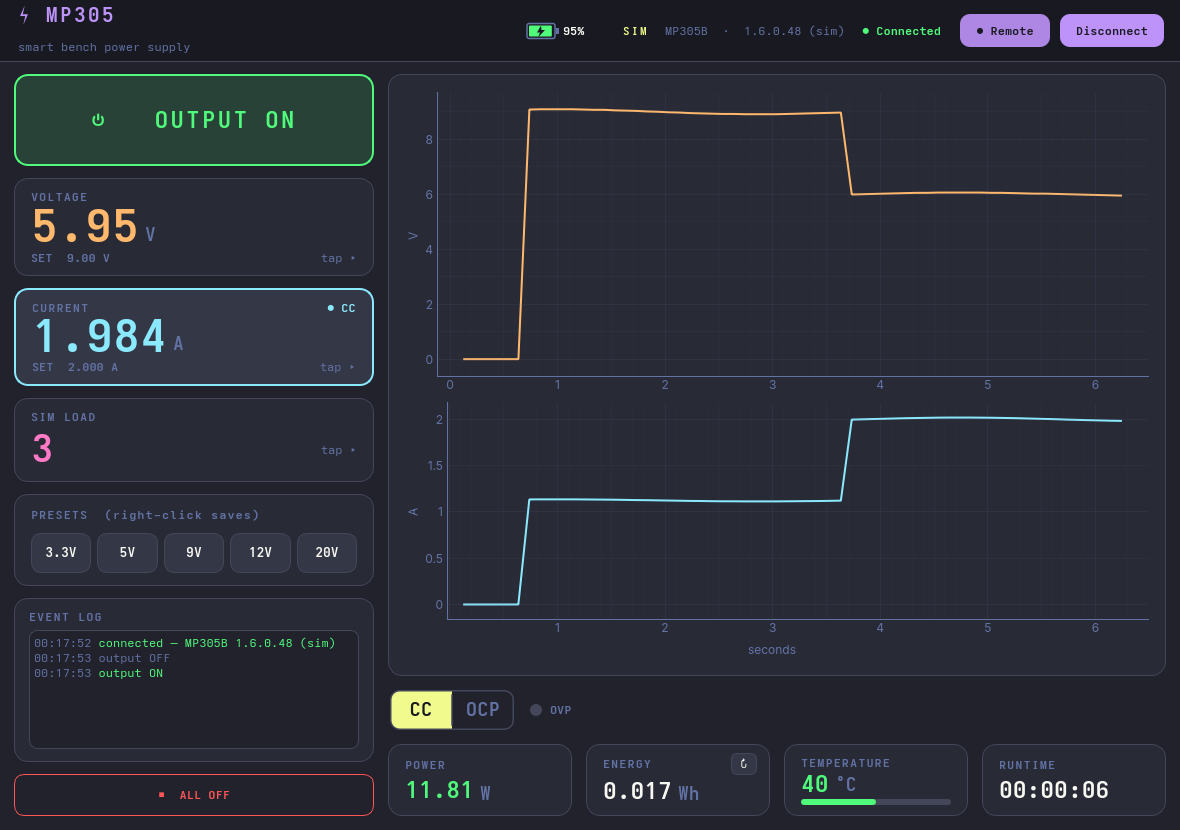
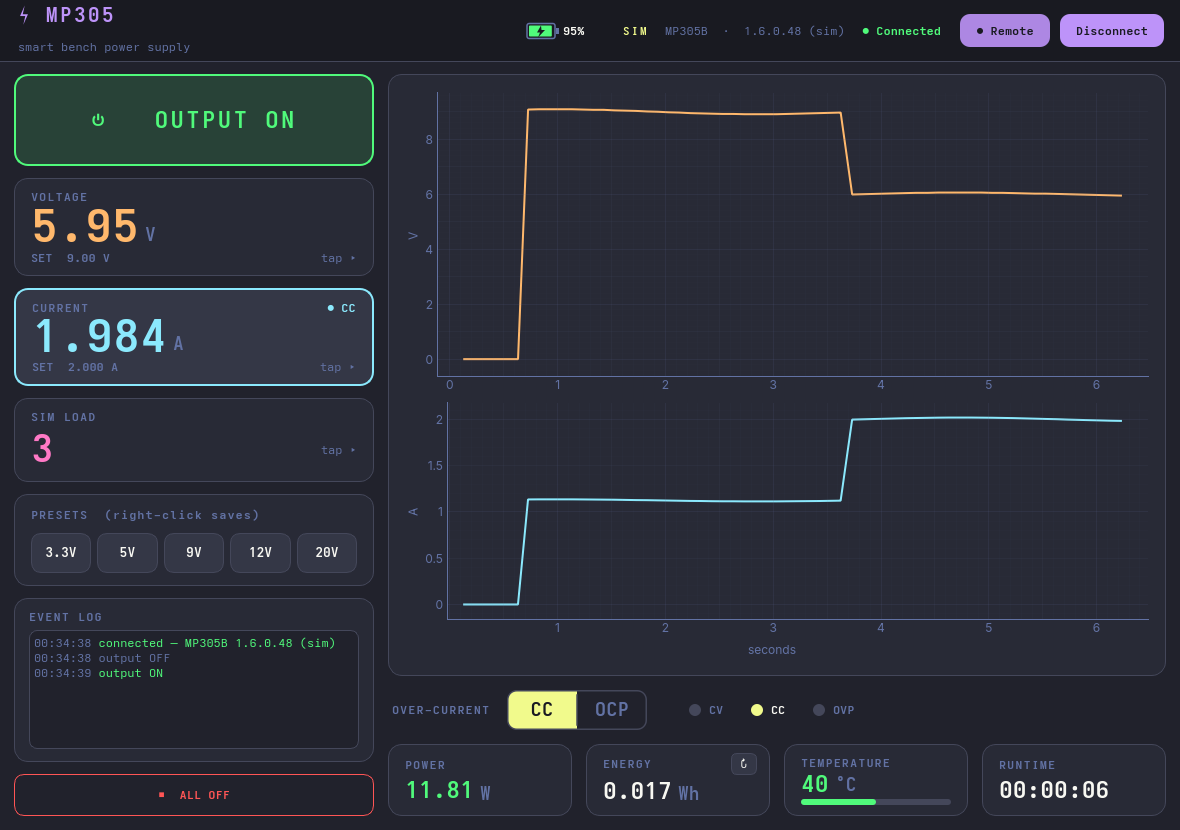
GUI: replicate WebLink control/status logic (over-current toggle vs CV/CC/OVP lamps) + 0.4.3
Studied the recovered WebLink infoComponent.vue:
- connectSets.currentOver (0=CC, 1=OCP) is a SELECTABLE setting -> a real CC|OCP toggle
  (over-current behaviour: current-limit vs trip), wired through reqCurrentOver ->
  backend.set_current_over (real: control cmd; sim: models the OCP trip)
- workState.outState (1=CC, 2=CV) is read-only regulation STATUS -> CV/CC lamps + card tags
- OVP is a status lamp; OCP trip overlaps the toggle (its OCP cell doubles as the indicator)
- backend exposes out_state/current_over; bump 0.4.3 (library unchanged)

diff --git a/gui/mp305gui/app.py b/gui/mp305gui/app.py
@@ -81,15 +81,25 @@ class Lamp(QWidget):
         p.drawText(self.rect().adjusted(20, 0, 0, 0), Qt.AlignmentFlag.AlignVCenter, self._label)
 
 
-class SegIndicator(QWidget):
-    """Bootstrap-style segmented status group: joined cells, rounded outer corners. Each
-    cell lights independently (it's a status display, not a mutually-exclusive control)."""
-    def __init__(self, cells):                       # cells = [(label, color), ...]
-        super().__init__(); self._cells = cells; self._active = set()
-        self.setFixedSize(62 * len(cells), 40)
+class SegToggle(QWidget):
+    """A real mutually-exclusive segmented toggle (Bootstrap-style joined cells). Click a
+    cell to select it. Used for the over-current behavior: CC (current-limit) | OCP (trip).
+    Faithful to WebLink's `connectSets.currentOver` (0=CC, 1=OCP)."""
+    selected = pyqtSignal(int)
 
-    def set_active(self, active):
-        self._active = set(active); self.update()
+    def __init__(self, cells):                       # cells = [(label, color), ...]
+        super().__init__(); self._cells = cells; self._idx = 0
+        self.setFixedSize(70 * len(cells), 40)
+        self.setCursor(Qt.CursorShape.PointingHandCursor)
+
+    def set_index(self, i):
+        self._idx = max(0, min(len(self._cells) - 1, int(i))); self.update()
+
+    def mousePressEvent(self, e):
+        i = int(e.position().x() // (self.width() / len(self._cells)))
+        i = max(0, min(len(self._cells) - 1, i))
+        if i != self._idx:
+            self._idx = i; self.update(); self.selected.emit(i)
 
     def paintEvent(self, _):
         p = QPainter(self); p.setRenderHint(QPainter.RenderHint.Antialiasing)
@@ -98,7 +108,7 @@ class SegIndicator(QWidget):
         f = QFont(); f.setPointSize(14); f.setBold(True); p.setFont(f)
         for i, (label, col) in enumerate(self._cells):
             x = i * cw
-            if label in self._active:
+            if i == self._idx:
                 p.save(); p.setClipRect(QRectF(x, 0, cw, h))
                 p.setPen(Qt.PenStyle.NoPen); p.setBrush(QColor(col)); p.drawRoundedRect(outer, r, r)
                 p.restore(); p.setPen(QColor(C["panel"]))
@@ -369,6 +379,7 @@ def _readout(title, unit, color):
 class MainWindow(QWidget):
     reqConnect = pyqtSignal(); reqDisconnect = pyqtSignal()
     reqV = pyqtSignal(float); reqA = pyqtSignal(float); reqOut = pyqtSignal(bool)
+    reqCurrentOver = pyqtSignal(int)
 
     def __init__(self, prefer_real=True):
         super().__init__()
@@ -460,10 +471,19 @@ class MainWindow(QWidget):
     def _right_column(self):
         col = QVBoxLayout(); col.setSpacing(14)
         col.addWidget(self._charts(), 1)
-        strip = QHBoxLayout(); strip.setContentsMargins(2, 0, 2, 0); strip.setSpacing(16)
-        self.seg = SegIndicator([("CC", C["warn"]), ("OCP", C["danger"])])   # standalone, no card
-        self.lamp_ovp = Lamp("OVP")
-        strip.addWidget(self.seg); strip.addWidget(self.lamp_ovp); strip.addStretch(1)
+        # over-current behaviour is a SELECTABLE setting → toggle (CC = current-limit, OCP =
+        # trip). CV/CC regulation status + OVP trip are read-only → lamps. The OCP trip
+        # overlaps the toggle, so the toggle's OCP cell doubles as that indicator.
+        strip = QHBoxLayout(); strip.setContentsMargins(4, 0, 4, 0); strip.setSpacing(16)
+        strip.addWidget(_lab("OVER-CURRENT", "cardTitle"))
+        self.cov = SegToggle([("CC", C["warn"]), ("OCP", C["danger"])])
+        self.cov.selected.connect(lambda i: None if self._sync else self.reqCurrentOver.emit(i))
+        strip.addWidget(self.cov)
+        strip.addSpacing(26)
+        self.lamp_cv = Lamp("CV"); self.lamp_cc = Lamp("CC"); self.lamp_ovp = Lamp("OVP")
+        for L in (self.lamp_cv, self.lamp_cc, self.lamp_ovp):
+            strip.addWidget(L)
+        strip.addStretch(1)
         col.addLayout(strip)
         stats = QHBoxLayout(); stats.setSpacing(14)
         self.r_pow = _readout("POWER", "W", C["pow"]); self.r_energy = self._energy_card()
@@ -520,7 +540,7 @@ class MainWindow(QWidget):
         self.worker.disconnected.connect(self._on_disconnected); self.worker.error.connect(self._on_error)
         self.reqConnect.connect(self.worker.connect_device); self.reqDisconnect.connect(self.worker.disconnect_device)
         self.reqV.connect(self.worker.set_voltage); self.reqA.connect(self.worker.set_current)
-        self.reqOut.connect(self.worker.set_output)
+        self.reqOut.connect(self.worker.set_output); self.reqCurrentOver.connect(self.worker.set_current_over)
         self.thread.start()
 
     # ---- helpers
@@ -580,7 +600,7 @@ class MainWindow(QWidget):
         self._logline(f"error: {msg}", C["danger"])
 
     def _on_state(self, st):
-        on = bool(st["output"]); cc = st.get("mode") == "CC"
+        on = bool(st["output"])
         self._sync = True
         if not self._init_sp:
             self.ch_v.set_setpoint(st["set_voltage"]); self.ch_a.set_setpoint(st["set_current"]); self._init_sp = True
@@ -588,8 +608,15 @@ class MainWindow(QWidget):
             self.out_btn.setChecked(on); self._logline(f"output {'ON' if on else 'OFF'}", C["on"] if on else C["muted"])
         self._sync = False
 
+        # CV/CC is the device's regulation status (out_state: 2=CV, 1=CC) — read-only
+        out_state = st.get("out_state", 0)
+        is_cv, is_cc = out_state == 2, out_state == 1
         self.ch_v.set_measured(st["voltage"]); self.ch_a.set_measured(st["current"])
-        self.ch_v.set_active(on and not cc, "CV"); self.ch_a.set_active(on and cc, "CC")
+        self.ch_v.set_active(is_cv, "CV"); self.ch_a.set_active(is_cc, "CC")
+        self._sync = True
+        self.cov.set_index(st.get("current_over", 0))   # the over-current toggle (selectable)
+        self._sync = False
+        self.lamp_cv.set(is_cv, C["on"]); self.lamp_cc.set(is_cc, C["warn"])
 
         self.r_pow[1].setText(f"{st['power']:.2f}"); self.r_energy[1].setText(f"{st['energy']:.3f}")
         self.temp_gauge.set(st["temperature"])
@@ -597,14 +624,7 @@ class MainWindow(QWidget):
         h, rem = divmod(int(st["working_time"]), 3600); m, s = divmod(rem, 60)
         self.r_time[1].setText(f"{h:02d}:{m:02d}:{s:02d}")
 
-        errs = st.get("errors", [])
-        active = set()
-        if on and cc:
-            active.add("CC")
-        if "errorDcOutOCP" in errs:
-            active.add("OCP")
-        self.seg.set_active(active)
-        self.lamp_ovp.set("errorDcOutOVP" in errs, C["danger"])
+        self.lamp_ovp.set("errorDcOutOVP" in st.get("errors", []), C["danger"])
 
         t = time.monotonic() - self._t0
         self._t.append(t); self._v.append(st["voltage"]); self._i.append(st["current"])

diff --git a/gui/mp305gui/backend.py b/gui/mp305gui/backend.py
@@ -17,7 +17,6 @@ sys.path.insert(0, os.path.join(os.path.dirname(os.path.dirname(os.path.dirname(
 
 
 def _state_to_dict(st, info_name=None) -> dict:
-    cc = bool(st.output) and st.current >= max(0.0, st.set_current) - 1e-3
     return {
         "voltage": st.voltage, "current": st.current, "power": st.power,
         "set_voltage": st.set_voltage, "set_current": st.set_current,
@@ -25,8 +24,10 @@ def _state_to_dict(st, info_name=None) -> dict:
         "energy": st.energy, "working_time": st.working_time,
         "battery": st.percentage, "battery_state": st.battery_state,
         "charging": st.battery_state == 1,
+        "out_state": st.out_state,          # device regulation status: 1=CC, 2=CV
+        "current_over": st.current_over,     # over-current behaviour setting: 0=CC, 1=OCP
         "errors": list(getattr(st, "errors", []) or []),
-        "mode": "CC" if cc else "CV",
+        "mode": "CC" if st.out_state == 1 else "CV",
     }
 
 
@@ -50,6 +51,14 @@ class RealBackend:
 
     def apply(self, v=None, a=None, on=None):
         self._psu.set_output(voltage=v, current=a, on=on)
+
+    def set_current_over(self, mode):
+        from pymp305 import ControlCommand
+        st = self._psu.read_state()
+        self._psu.control(ControlCommand(
+            remote_con=1, set_voltage=st.set_voltage, set_current=st.set_current,
+            real_change=3, voltage_slow=st.voltage_slow, current_over=int(mode),
+            output=st.output, model=st.model))
 
     def reset_energy(self):
         pass   # no device command mapped for the energy/time reset yet
@@ -76,6 +85,8 @@ class SimBackend:
         self.energy_wh = 0.0
         self.batt = 86.0
         self.charging = True
+        self.current_over = 0      # 0 = CC (current-limit), 1 = OCP (trip)
+        self._ocp_trip = False
         self._t0 = time.monotonic()
         self._last = self._t0
         self._n = 0
@@ -83,6 +94,9 @@ class SimBackend:
     def toggle_charging(self):
         self.charging = not self.charging
         return self.charging
+
+    def set_current_over(self, mode):
+        self.current_over = int(mode)
 
     def reset_energy(self):
         self.energy_wh = 0.0
@@ -97,16 +111,21 @@ class SimBackend:
         self._last = now
         self._n += 1
         ripple = 0.01 * math.sin(self._n / 6.0)
+        out_state = 0           # 0 = off, 1 = CC, 2 = CV
         if self.on:
             i_cv = self.set_v / self.load            # current the load would draw at set V
-            cc = i_cv > self.set_a
-            current = self.set_a if cc else i_cv
-            voltage = (self.set_a * self.load) if cc else self.set_v
+            over = i_cv > self.set_a + 1e-9
+            if over and self.current_over == 1:      # OCP selected → trip the output off
+                self.on = False; self._ocp_trip = True
+                voltage = current = 0.0
+            elif over:                               # CC: limit current
+                current = self.set_a; voltage = self.set_a * self.load; out_state = 1
+            else:                                    # CV: hold voltage
+                voltage = self.set_v; current = i_cv; out_state = 2
         else:
             voltage = current = 0.0
-            cc = False
-        voltage = max(0.0, voltage * (1 + ripple)) if self.on else 0.0
-        current = max(0.0, current * (1 + ripple)) if self.on else 0.0
+        if self.on:
+            voltage = max(0.0, voltage * (1 + ripple)); current = max(0.0, current * (1 + ripple))
         power = voltage * current
         self.energy_wh += power * dt / 3600.0
         target_temp = 25.0 + power * 1.4
@@ -118,8 +137,9 @@ class SimBackend:
             "output": int(self.on), "model": 0, "temperature": round(self.temp),
             "energy": round(self.energy_wh, 3), "working_time": int(now - self._t0),
             "battery": int(round(self.batt)), "battery_state": 1 if self.charging else 0,
-            "charging": self.charging,
-            "errors": [], "mode": "CC" if (self.on and cc) else "CV",
+            "charging": self.charging, "out_state": out_state, "current_over": self.current_over,
+            "errors": ["errorDcOutOCP"] if self._ocp_trip else [],
+            "mode": "CC" if out_state == 1 else "CV",
         }
 
     def apply(self, v=None, a=None, on=None):
@@ -129,6 +149,8 @@ class SimBackend:
             self.set_a = max(0.0, min(5.0, float(a)))
         if on is not None:
             self.on = bool(on)
+            if self.on:
+                self._ocp_trip = False               # re-enabling clears the OCP latch
 
     def set_load(self, ohms: float):
         self.load = max(0.1, ohms)

diff --git a/gui/mp305gui/worker.py b/gui/mp305gui/worker.py
@@ -68,6 +68,16 @@ class DeviceWorker(QObject):
     def set_output(self, on: bool):
         self._apply(on=on)
 
+    @pyqtSlot(int)
+    def set_current_over(self, mode: int):
+        if self._live:
+            fn = getattr(self.backend, "set_current_over", None)
+            if fn is not None:
+                try:
+                    fn(mode)
+                except Exception as e:  # noqa: BLE001
+                    self.error.emit(str(e))
+
     def _apply(self, **kw):
         if not self._live:
             return

diff --git a/python/pymp305/__init__.py b/python/pymp305/__init__.py
@@ -52,4 +52,4 @@ __all__ = [
     "MODEL_DC", "MODEL_PROGRAMMABLE", "MODEL_USB_PD", "MODEL_CHARGE",
     "protocol", "commands", "ota", "Firmware", "IntelHexFirmware", "BootInfo",
 ]
-__version__ = "0.4.2"
+__version__ = "0.4.3"

diff --git a/CHANGELOG.md b/CHANGELOG.md
@@ -4,6 +4,15 @@ All notable changes to `pymp305`. Versions follow semver (pre-1.0: minor = featu
 
 > ⚠️ Nothing here has been validated against physical hardware yet — see the README banner.
 
+## 0.4.3
+
+### Changed
+- **GUI** (`gui/`): correct the control-vs-status semantics by replicating WebLink's logic —
+  **over-current** `CC | OCP` is now a real selectable toggle (sets `currentOver`:
+  current-limit vs trip), while **CV / CC / OVP** are read-only status lamps driven by the
+  device's `outState`. The simulator models the OCP trip. Also: flat SIM/USB label, energy
+  reset button, presets/CV-CC clipping fixes.
+
 ## 0.4.2
 
 ### Changed

diff --git a/gui/README.md b/gui/README.md
@@ -31,7 +31,9 @@ python run.py --demo     # force the simulator
 - **Keypad** — tap any channel to open an on-screen pad with **digit + unit** buttons
   (`9`→`V`, `1500`→`mA`); exact entry, no keyboard.
 - **Presets** — one-click V+I rails; **right-click a preset to save** the current setpoint.
-- **CV | CC** segmented indicator + **OUTPUT / OVP / OCP** lamps.
+- **Over-current toggle** `CC | OCP` — a real *control* (sets the device's `currentOver`:
+  CC = current-limit, OCP = trip the output). Distinct from the **CV / CC / OVP status lamps**
+  (CV/CC come from the device's regulation status); the OCP cell doubles as its trip lamp.
 - **Battery** (internal cell) — %, charging bolt, colour by level, **pulsing red near-empty**;
   click to toggle charge/discharge (sim).
 - **Temperature** bar gauge, **Power**, **Energy**, **Runtime**.